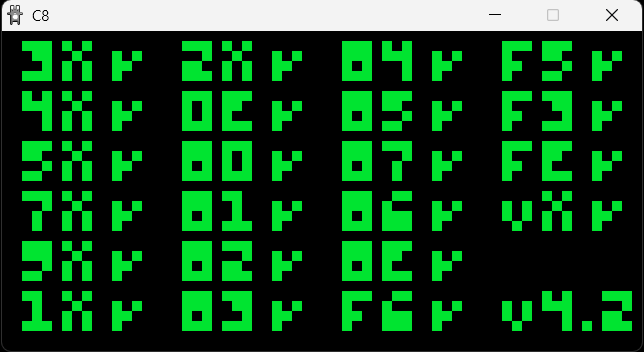
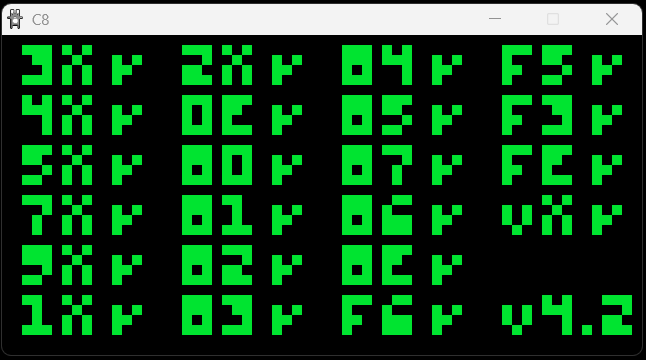
Update readme

diff --git a/README.md b/README.md
@@ -4,11 +4,14 @@ My attempt at an emudev hello world project, learning C at the same time. Using 
 
 WIP
 
-![c8](docs/c8.png)
-![c8](docs/progress.png)
-![c8_test1](docs/logs.png)
-![c8_test2](docs/test2.png)
+![c8_test2](docs/brick.gif)
+![c8_test2](docs/bowling.gif)
 
+<p align="center">
+  <img src="docs/test1.png" width="32%">
+  <img src="docs/progress.png" width="32%">
+  <img src="docs/logs.png" width="25%">
+</p>
 ## Build
 
 From the root of the repo, builds in debug configuration by default:
@@ -51,6 +54,5 @@ Beep sound - [https://bigsoundbank.com/beep-of-a-cash-register-s1417.html](https
 
 - Unfuck logging
   - Write into a file stream instead of stderr
-- Add sound
 - Tests
 - Update shift instructions to be OG CHIP-8 compatible by default ig
